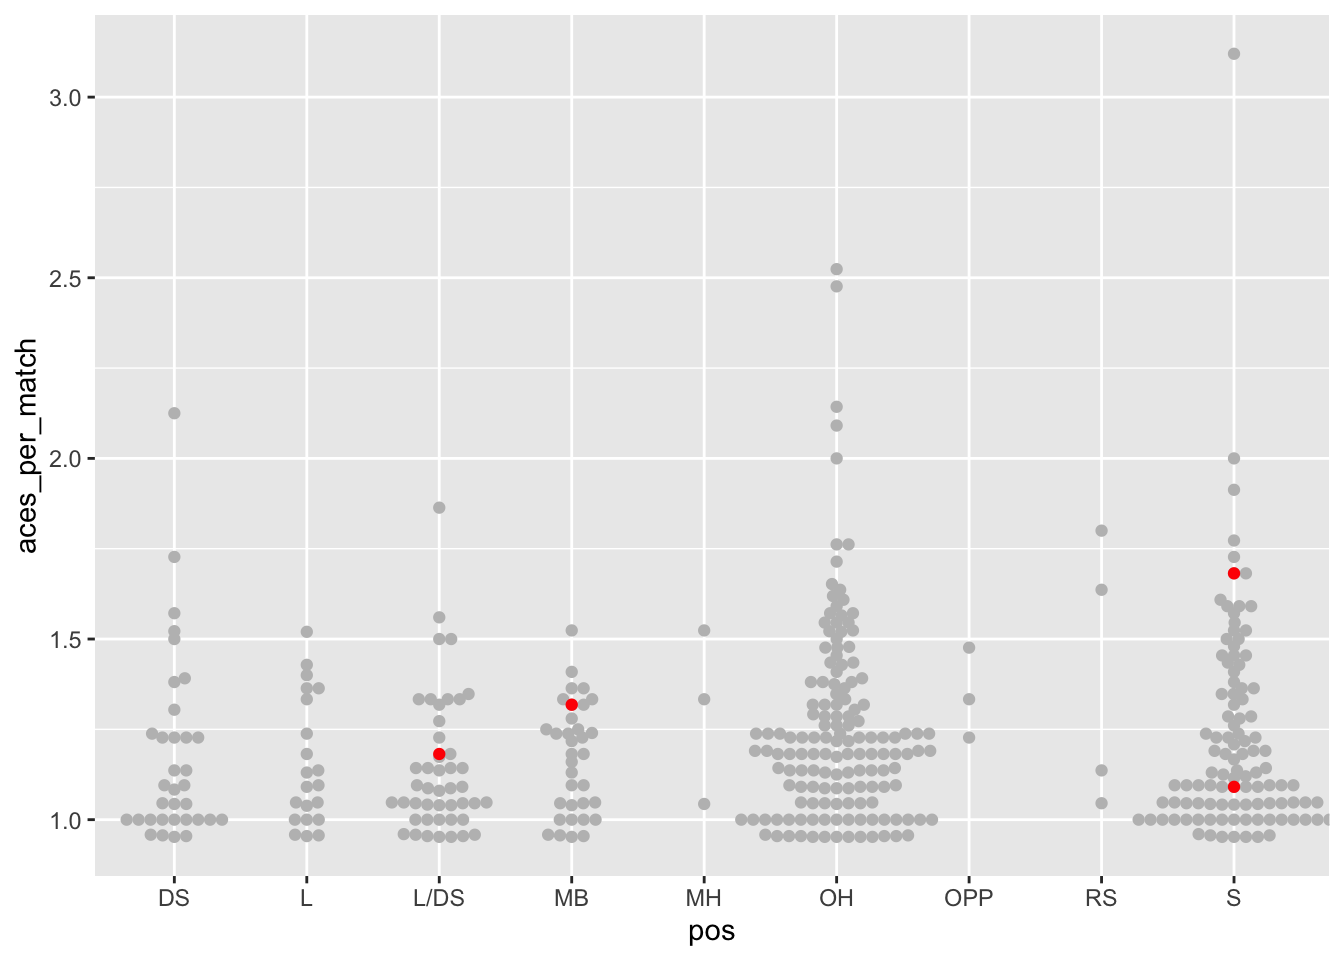
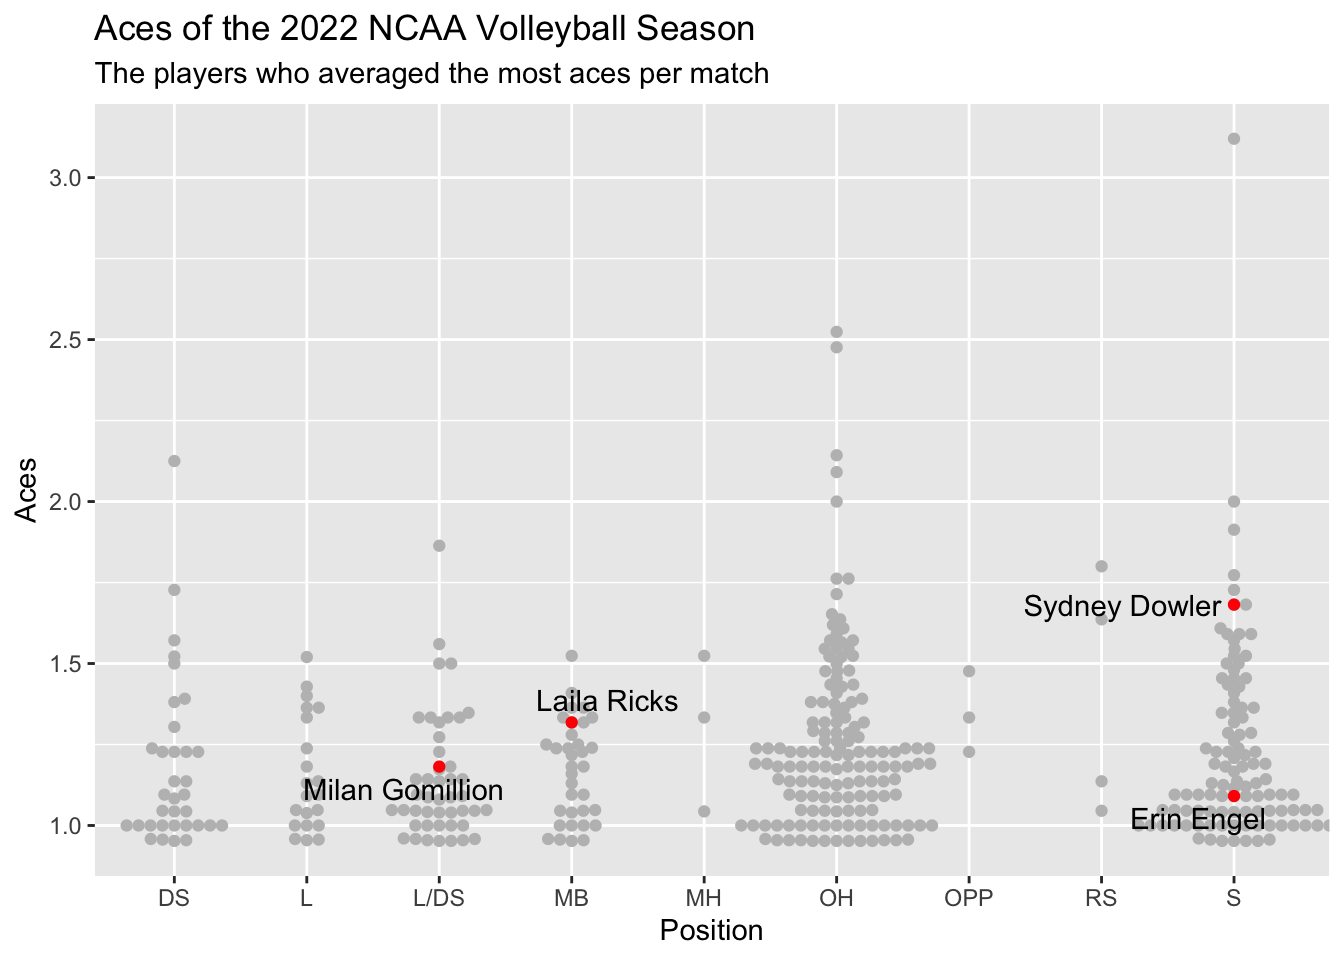
vb updated

diff --git a/ncaa-volleyball-aces/index.html b/ncaa-volleyball-aces/index.html
@@ -84,7 +84,16 @@
 <pre class="r"><code>library(ggbeeswarm)
 library(ggrepel)</code></pre>
 <pre class="r"><code>set.seed(1234)</code></pre>
-<pre class="r"><code>vb &lt;- read.csv(&quot;https://raw.githubusercontent.com/dwillis/NCAAWomensVolleyballData/main/data/ncaa_womens_volleyball_playerstats_2022.csv&quot;)</code></pre>
+<pre class="r"><code>vb &lt;- read_csv(&quot;https://raw.githubusercontent.com/dwillis/NCAAWomensVolleyballData/main/data/ncaa_womens_volleyball_playerstats_2022.csv&quot;)</code></pre>
+<pre><code>## Rows: 5379 Columns: 32
+## ── Column specification ────────────────────────────────────────────────────────
+## Delimiter: &quot;,&quot;
+## chr  (7): team, full_name, roster_name, last_name, first_name, yr, pos
+## dbl (23): season, jersey, feet, inches, gp, gs, mp, s, kills, errors, total_...
+## lgl  (2): ms, total_blocks
+## 
+## ℹ Use `spec()` to retrieve the full column specification for this data.
+## ℹ Specify the column types or set `show_col_types = FALSE` to quiet this message.</code></pre>
 <pre class="r"><code>vb_clean &lt;- vb %&gt;%
   filter(gp &gt; 20) %&gt;% 
   filter(!is.na(aces)) %&gt;% 
@@ -107,10 +116,12 @@ library(ggrepel)</code></pre>
 <pre class="r"><code>ggplot() + geom_beeswarm(data=stars, aes(x=pos, y=aces_per_match), color=&quot;grey&quot;)</code></pre>
 <p><img src="https://sconnuck.github.io/ncaa-volleyball-aces/index_files/figure-html/unnamed-chunk-8-1.png" width="672" />
 This tells us which positions produced most aces per match. Looks like generally, it’s outside hitters and setters the most, which makes sense. Those are the players who serve the volleyball more often.</p>
+<p>Now, let’s get our dataframe of only Maryland volleyball players:</p>
 <pre class="r"><code>umd &lt;- player_aces %&gt;% 
   filter(team == &quot;Maryland Terrapins, Terps&quot;) %&gt;% 
   filter(aces_per_match &gt; 0.95) %&gt;% 
   arrange(desc(aces_per_match))</code></pre>
+<p>Now, let’s see where Maryland players fit in.</p>
 <pre class="r"><code>ggplot() + 
   geom_beeswarm(
     data=stars, 
@@ -119,8 +130,21 @@ This tells us which positions produced most aces per match. Looks like generally
   geom_beeswarm(
     data=umd, 
     groupOnX=TRUE, 
-    aes(x=pos, y=aces_per_match), color=&quot;red&quot;)</code></pre>
-<p><img src="https://sconnuck.github.io/ncaa-volleyball-aces/index_files/figure-html/unnamed-chunk-10-1.png" width="672" /></p>
+    aes(x=pos, y=aces_per_match), color=&quot;red&quot;)+
+  geom_text_repel(
+    data=umd, 
+    aes(x=pos, y=aces_per_match, label=full_name))+
+  labs(
+    title= &quot;Aces of the 2022 NCAA Volleyball Season&quot;,
+    subtitle = &quot;The players who averaged the most aces per match&quot; ,
+    x=&quot;Position&quot;,
+    y=&quot;Aces&quot;
+    )</code></pre>
+<p><img src="https://sconnuck.github.io/ncaa-volleyball-aces/index_files/figure-html/unnamed-chunk-10-1.png" width="672" />
+This includes ALL Maryland players. That’s why our data is skewed, including all of the Terps who haven’t recorded a single ace. I’m going to amend the “umd” dataframe to only include Maryland players with at least .95 aces per match, which is the threshold I made for the upper echelon.</p>
+<p>Ok, well now it has only the Maryland players, since I adjusted the dataframe. But originally, “0” aces per match was the first to show up on the chart. Now it’s only including players with at least 0.95.</p>
+<p>I think the most newsworthy item of this chart is the success that Maryland setter Sydney Dowler has had. She will always lead the team in assists, being the setter, but it’s even more impressive that she leads the team – and most of the country – with nearly 1.7 aces per match.</p>
+<p>Also, outside hitters and setters, like we noted, produce the most aces each match. But that’s not the case for Adam Hughes’ Terrapins. That makes sense, as Maryland’s outside hitters, like Laila Ivey and Sam Csire, are much more known for their thunderous spikes and kills. But it’s interesting that on other teams, those are the ones going back to the service line and consistently earning their team a point with one swing of the volleyball.</p>
 
     </div>
   </article>
